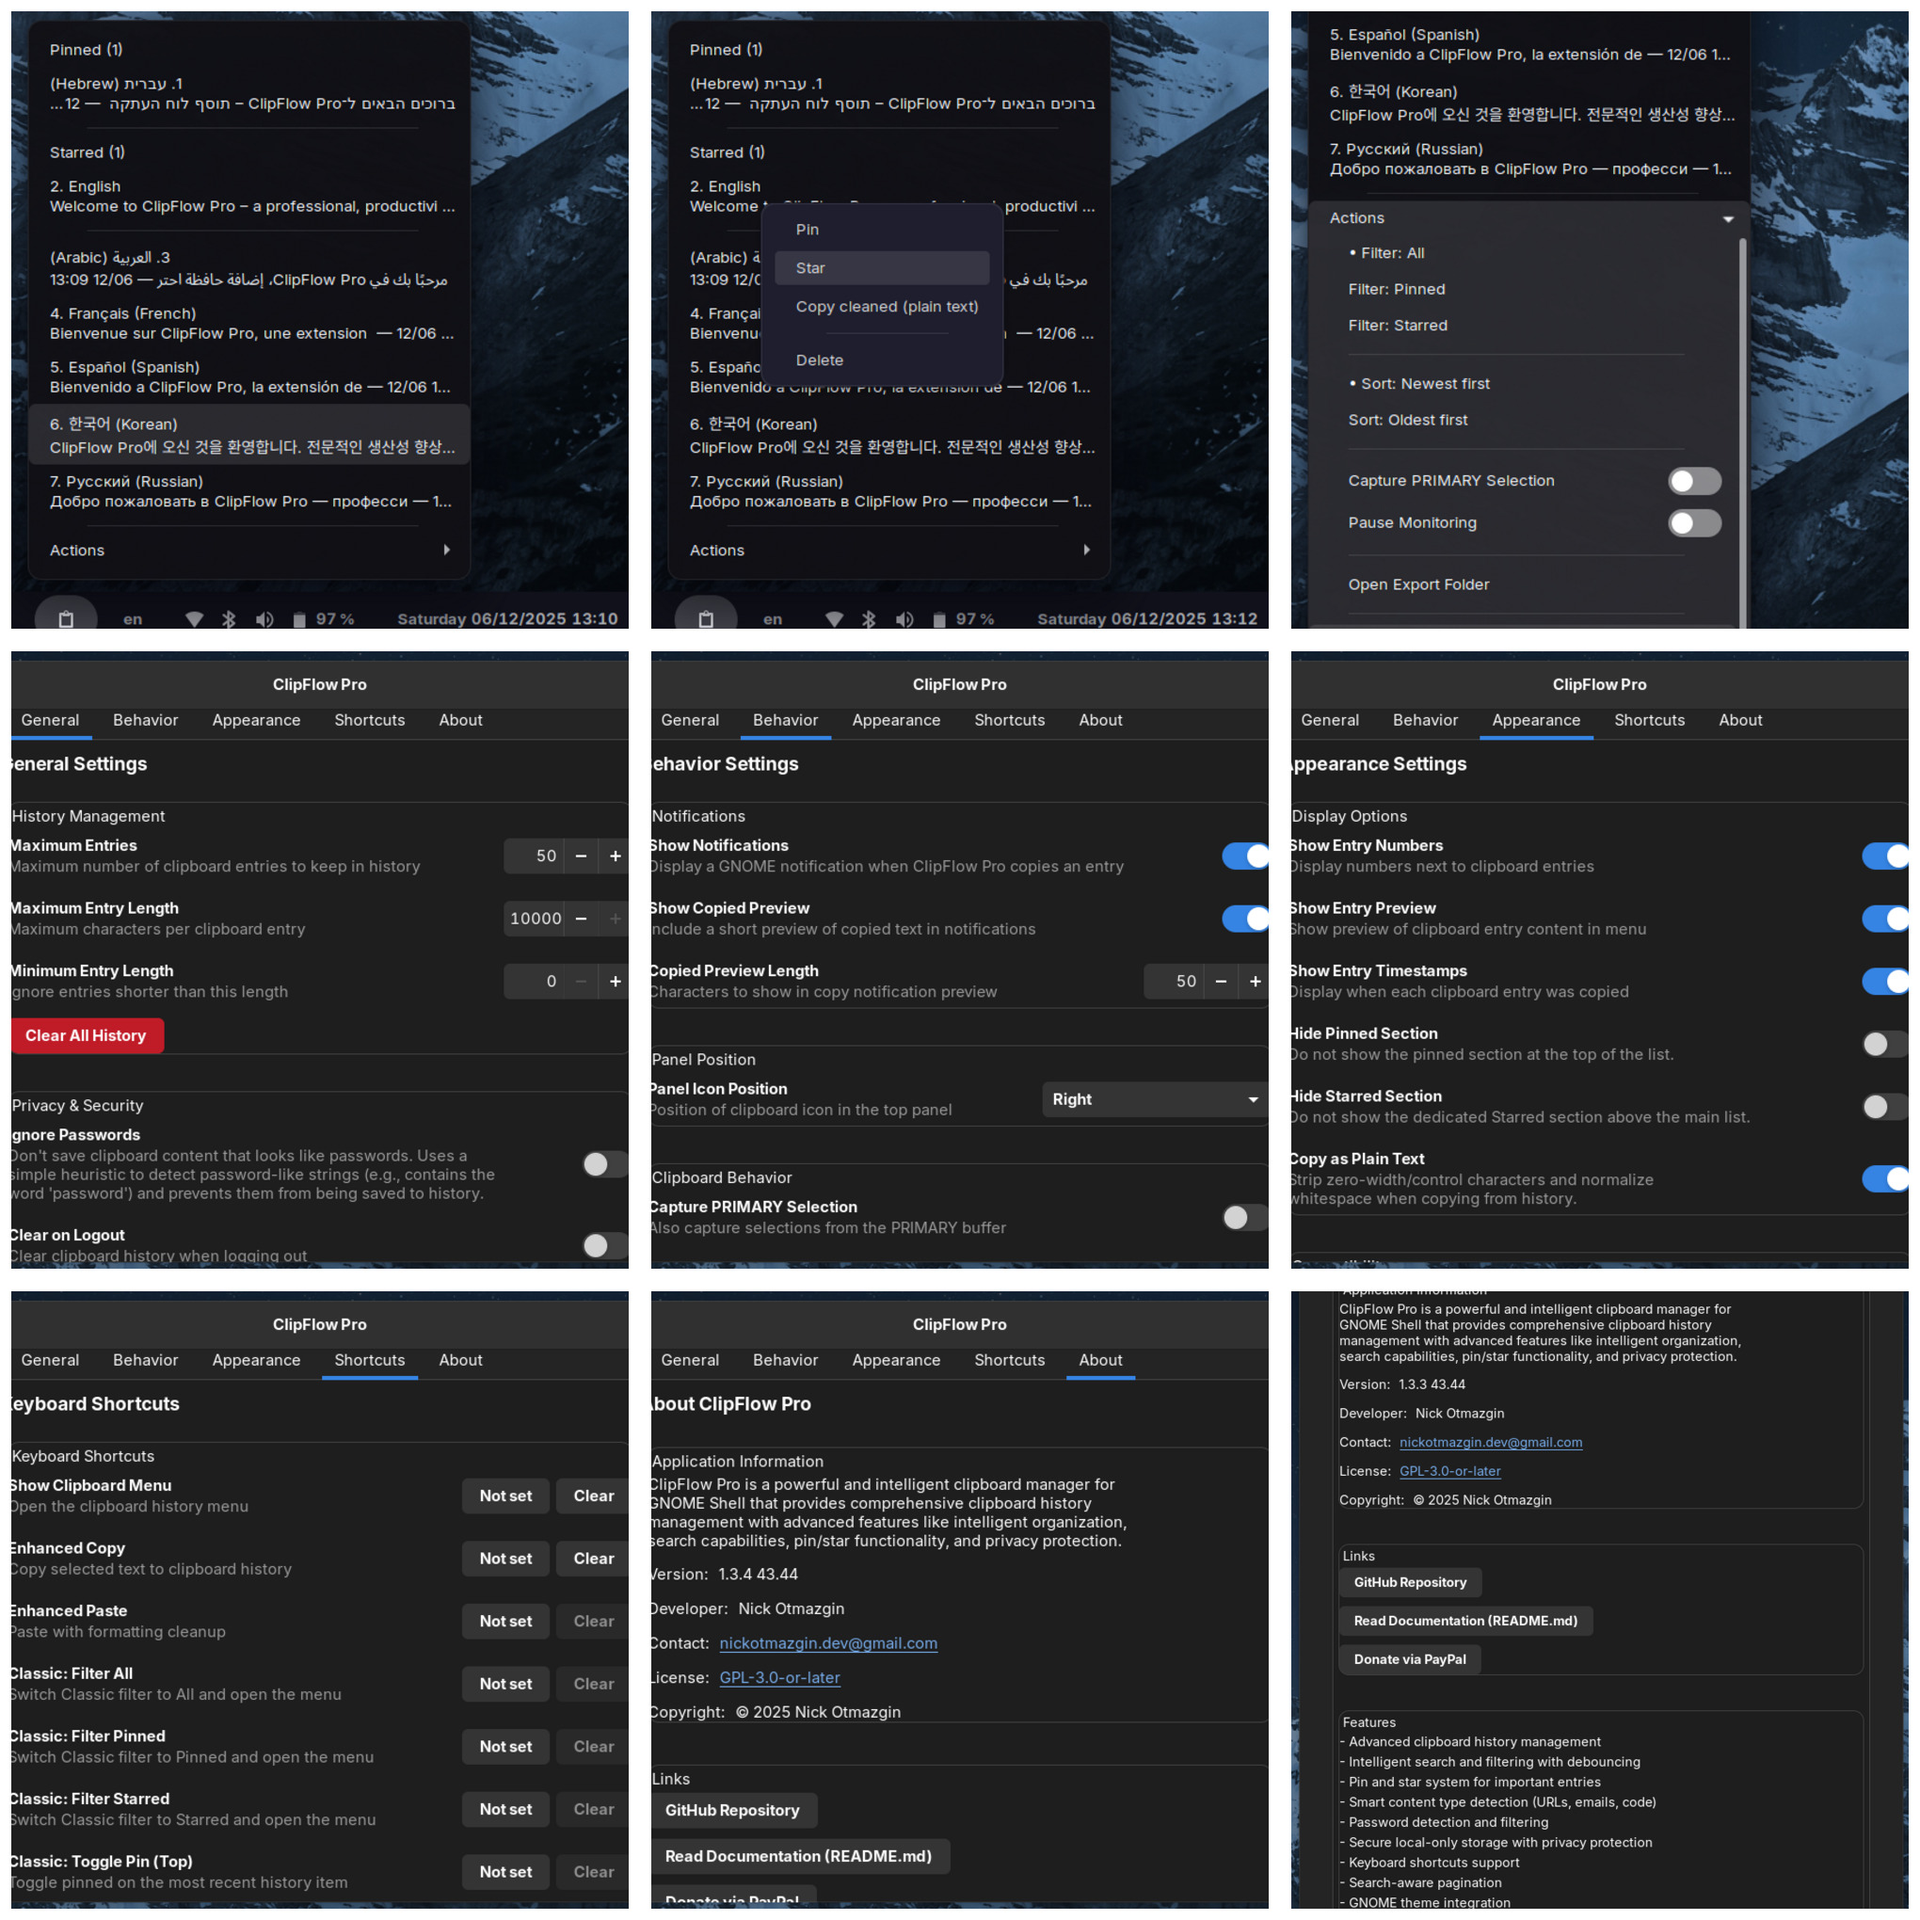
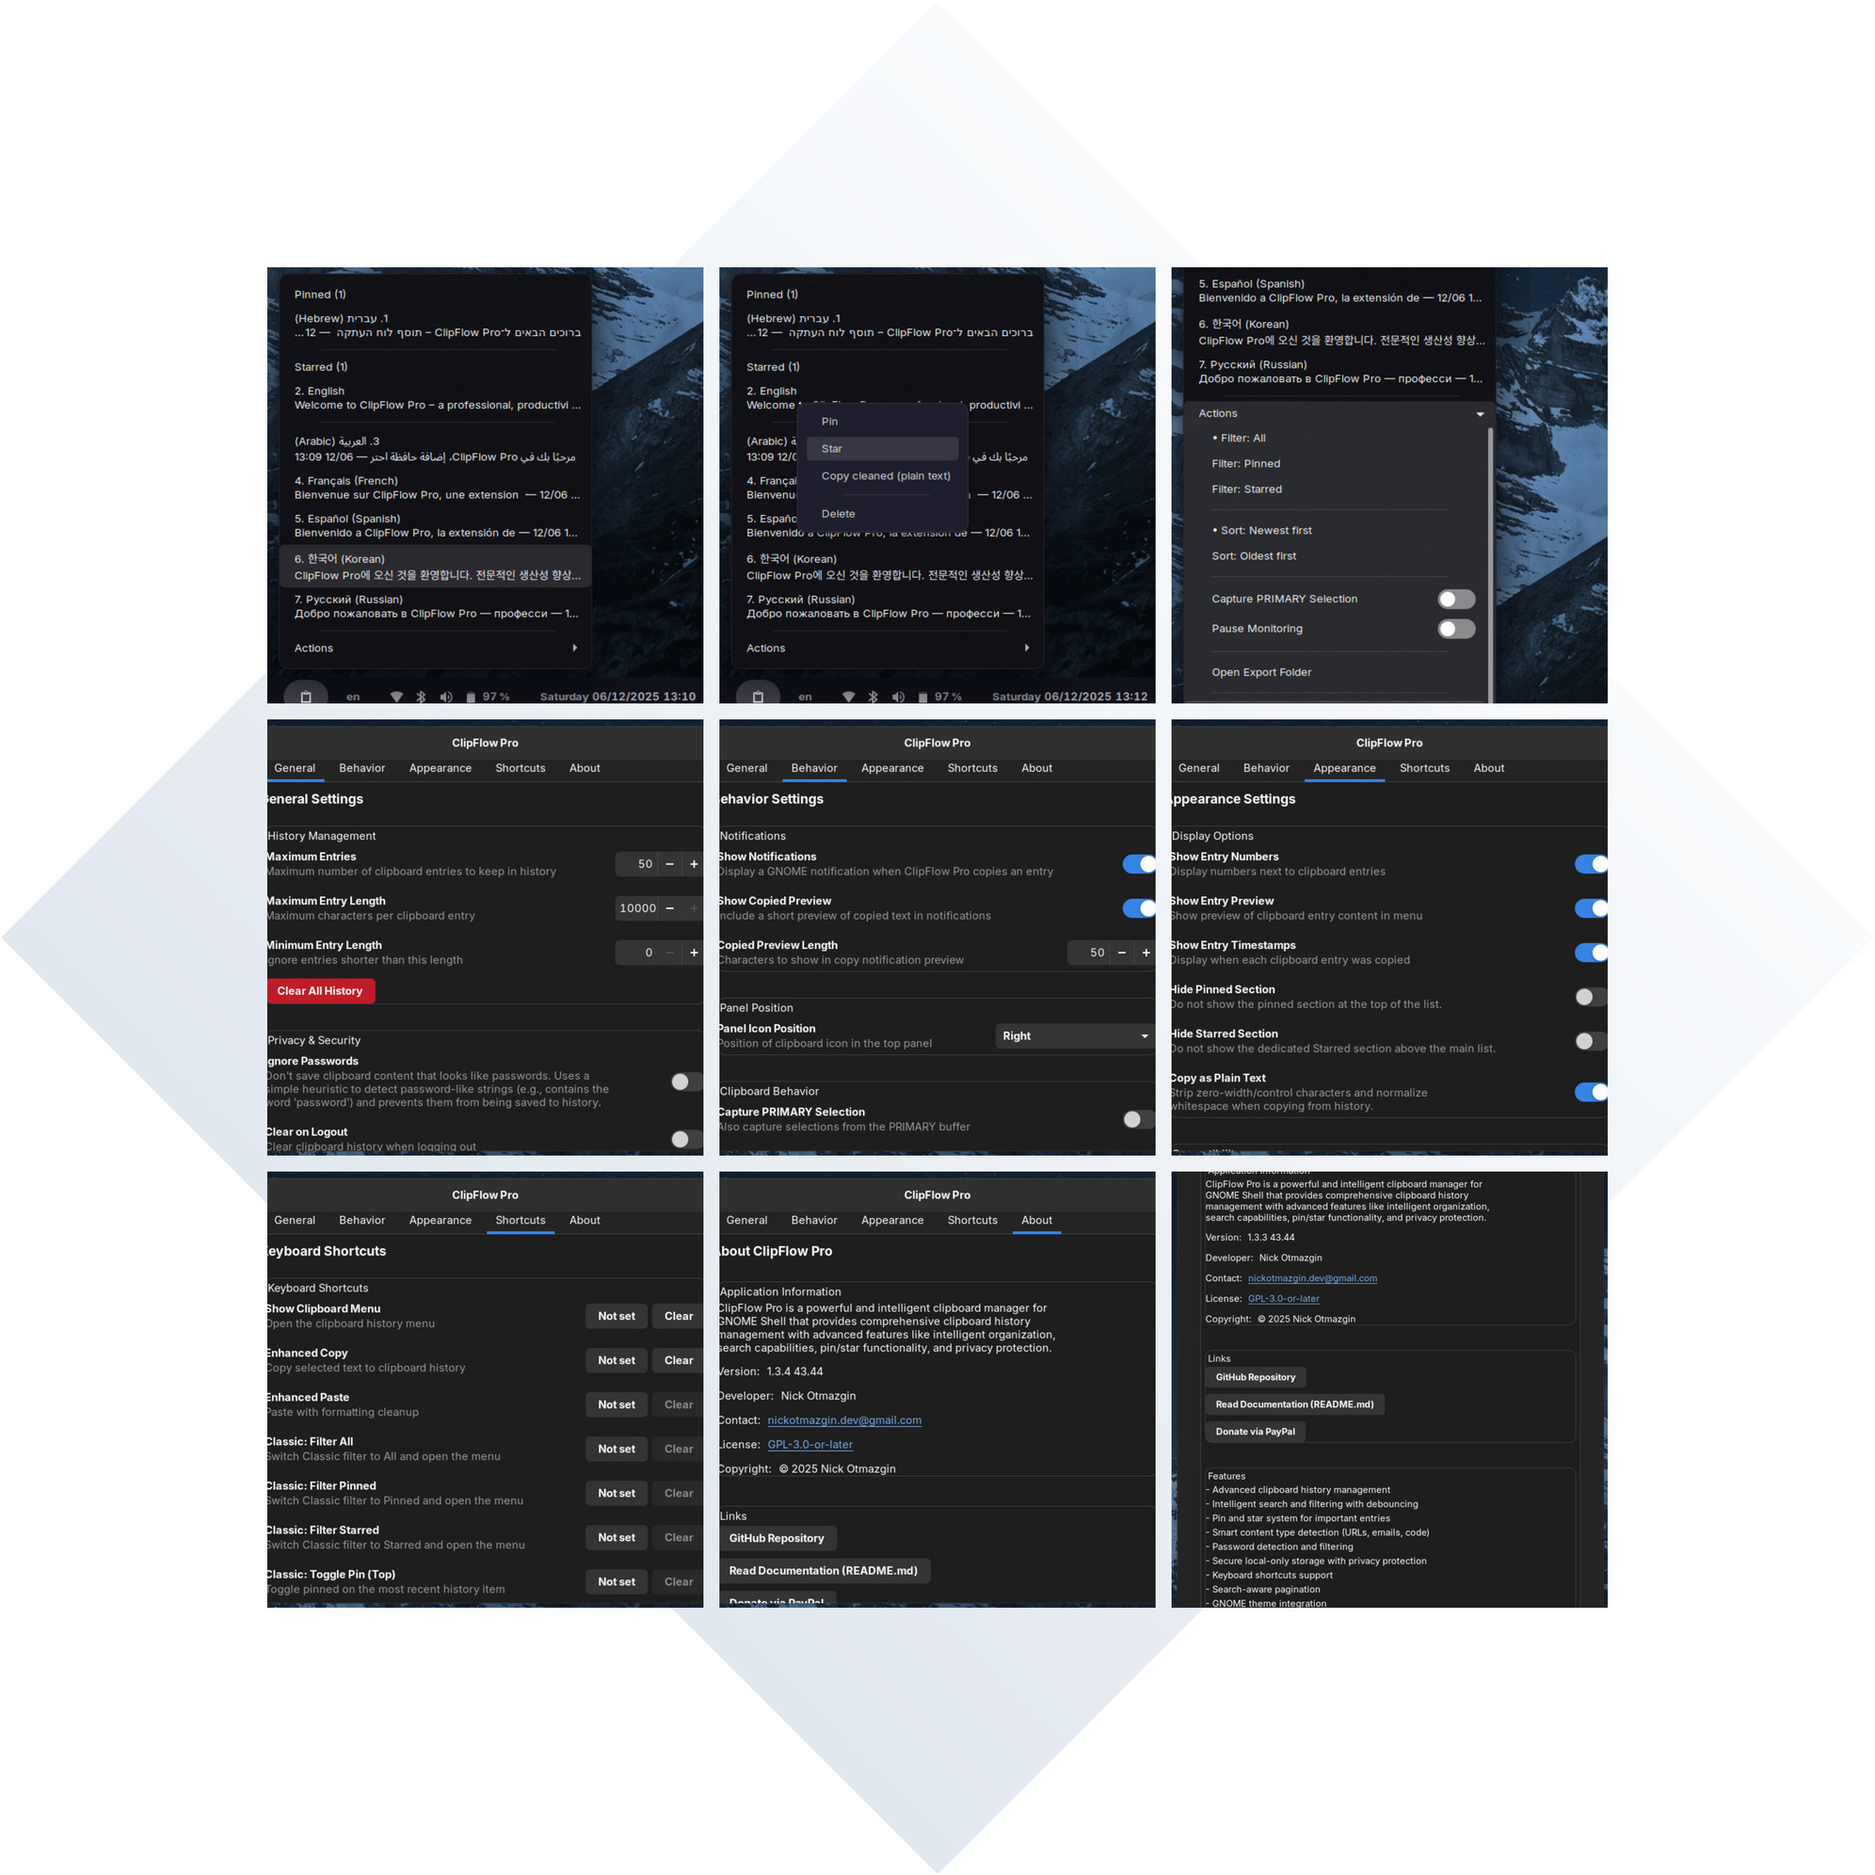
docs: add gradient background to 1.3.4 collage + link 'What’s New in 1.3.4' (#86)

diff --git a/README.md b/README.md
@@ -1,5 +1,7 @@
 # ClipFlow Pro
 
+[What’s New in 1.3.4](CHANGELOG.md)
+
 [![Sponsor](https://img.shields.io/badge/Sponsor-%E2%9D%A4-ff5c93?logo=github-sponsors&logoColor=white)](https://github.com/sponsors/nickotmazgin)
 
 Clipboard history manager for GNOME Shell (UUID `clipflow-pro@nickotmazgin.github.io`).
